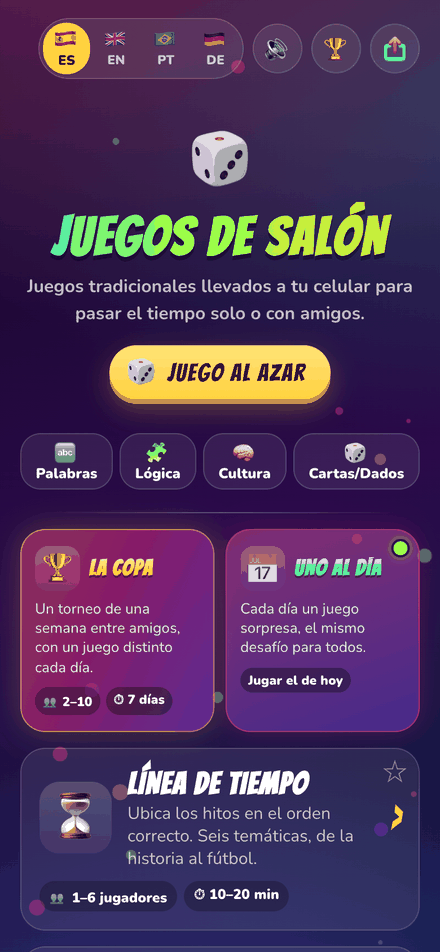
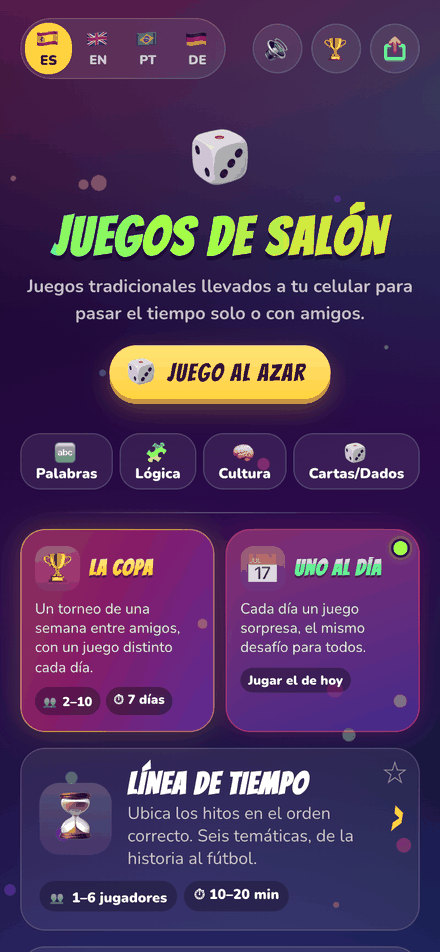
Docs: C-17 y README cuentan la barra de la portada en dos bloques; captura del menú rehecha
- C-17: el idioma a la izquierda, las acciones a la derecha, y a 320 px bajan a otra línea.
- README: compartir va junto al sonido y los rankings, no junto al idioma.
- base.css: el comentario del toggle ya no habla de la portada (ahí va en su propio bloque).
- capturas.json: la fuente de la portada era index.html (sin public/, desde D-192), así que su
  captura nunca se marcaba vieja. Ahora es public/index.html; menu.png rehecha.

diff --git a/public/assets/css/base.css b/public/assets/css/base.css
@@ -225,10 +225,11 @@ details.panel summary::-webkit-details-marker { display: none; }
 .lang-toggle button.on { background: var(--yellow); color: #3a1200; transform: scale(1.04); }
 .lang-toggle button:active { transform: scale(0.96); }
 /*
- * Con cuatro idiomas el toggle en línea mide unos 290 px y, en la barra de arriba de la portada,
- * empuja el sonido y compartir fuera de la pantalla. En un celular angosto la bandera no se
- * esconde (antes sí, D-231): sube encima del código, y el toggle queda del ancho que tenía con
- * el código solo. Si igual no cabe, los botones redondos bajan a una segunda línea antes que salirse.
+ * Con cuatro idiomas el toggle en línea mide unos 290 px y, en una barra de arriba que lo lleva
+ * junto al sonido (Rankings, Uno al día), empuja los botones redondos fuera de la pantalla. En un
+ * celular angosto la bandera no se esconde (antes sí, D-231): sube encima del código, y el toggle
+ * queda del ancho que tenía con el código solo. Si igual no cabe, los botones redondos bajan a una
+ * segunda línea antes que salirse. La portada lo lleva en su propio bloque (.portada-barra, C-17).
  */
 @media (max-width: 440px) {
   .lang-toggle:has(> :nth-child(4)) button { flex-direction: column; gap: 2px; padding: 4px 9px; font-size: 0.72rem; }

diff --git a/docs/CANONES.md b/docs/CANONES.md
@@ -385,8 +385,10 @@ de dónde viene. Lo que cambie la portada se cambia aquí, en el mismo PR.
 - **Dentro de una tarjeta no hay nada tocable**: la tarjeta es un link entero. Lo que se toca
   sin abrir el juego, como la ⭐, va al lado del link, encima de la tarjeta (`.game-slot`), con
   44 px de toque y sin tapar texto (C-8, D-238).
-- **La barra de arriba** lleva el idioma (C-3), el sonido (C-4), 🏆 rankings (D-212, abiertos
-  a todos desde D-217) y compartir, que comparte la app con su tarjeta social en el idioma en que se
+- **La barra de arriba** va en dos bloques: el idioma (C-3) a la izquierda y, a la derecha, las
+  acciones: el sonido (C-4), 🏆 rankings (D-212, abiertos a todos desde D-217) y compartir. En un
+  celular angosto, si no caben juntos (a 320 px con cuatro idiomas), las acciones bajan a una
+  segunda línea y siguen a la derecha (v0.128.1). Compartir comparte la app con su tarjeta social en el idioma en que se
   mira (`compartirApp`, D-226, U-33). Su ícono es el de compartir de los sistemas operativos, una
   caja abierta con una flecha hacia arriba, en SVG y no un emoji (D-242), con la caja celeste,
   la flecha rosada y la sombra de abajo de los botones de la página (D-243).

diff --git a/README.md b/README.md
@@ -425,7 +425,8 @@ Spec and design: [docs/games/cup.md](docs/games/cup.md)
 
 - **Languages:** Spanish (default), English, Brazilian Portuguese and German. The menu toggle saves the choice on the device, and the browser language is never used to guess (D-47, D-48). See [Languages](#languages).
 - **Sound:** effects synthesized with Web Audio, no audio files. A 🔊/🔇 button on every screen.
-- **Sharing the app:** a share button next to the language and sound ones on the menu, drawn with
+- **Sharing the app:** a share button at the top right of the menu, next to sound and 🏆 rankings
+  (the language toggle sits on the left, in a block of its own), drawn with
   the system share icon (a box with an arrow pointing up, D-242) in the page's colors: a cyan
   box and a pink arrow, each with the drop shadow of the page's buttons (D-243). On a phone it
   opens the share sheet with the menu's social card **as an image** and a short text — a header with
